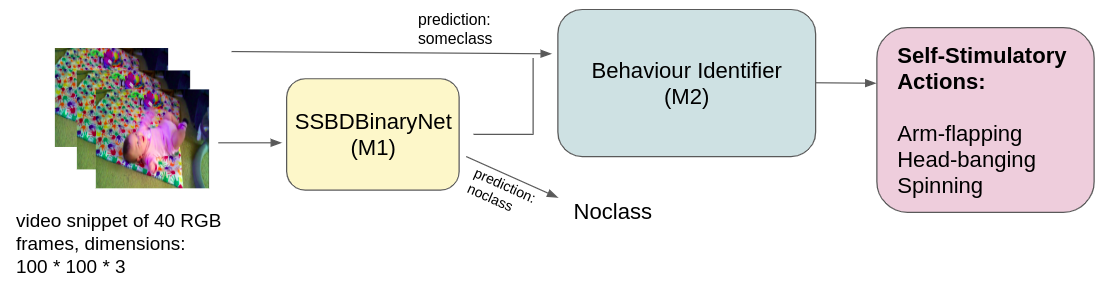
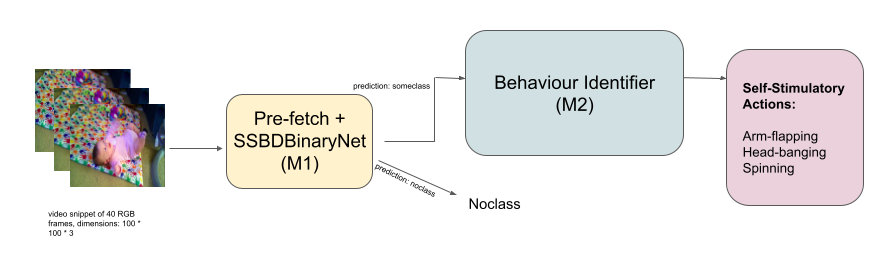
docs: update arch diagram

Changed region(s): [[0.0, 0.0311, 1.0, 0.965], [0.8237, 0.7471, 0.9763, 0.8093], [0.3661, 0.0311, 0.4576, 0.0934]]

diff --git a/src/ssbdplus/prefetch.py b/src/ssbdplus/prefetch.py
@@ -4,8 +4,12 @@ import torchvision.models as models
 import torch.nn.functional as F
 
 """
-    @class Prefetch used to classify YOLO bounding boxes as adults or children
-           This model was used as a part of preprocessing.
+    @class Prefetch
+        Used to classify YOLO bounding boxes as adults or children
+        This model was used as a part of preprocessing.
+        @component VGG-19 base CNN model
+        @component Fully-connected NN
+        
         @param dropout_rate: The dropout rate used by the model
             @default 0.40
         @param dim_fc_layer_1: The dimension of the first hidden layer

diff --git a/README.md b/README.md
@@ -1,5 +1,5 @@
 # SSBD+
-Code and material relevant to the paper, "Introducing SSBD+ Dataset with an Attentive Convolutional Pipeline for detecting Self-Stimulatory Behaviours in Children using raw videos"  
+Code and material relevant to the paper, "Introducing SSBD+ Dataset with a Convolutional Pipeline for detecting Self-Stimulatory Behaviours in Children using raw videos"  
 
 
 ![Pipelined Architecture](./docs/images/SSBDPipeline.png)
